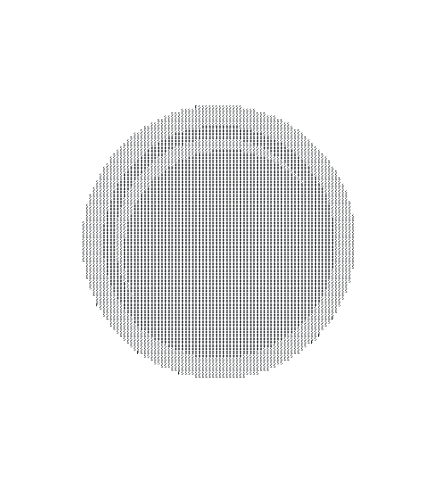
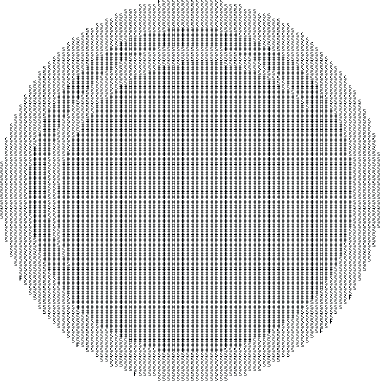
roadmap images without margins, aligned center

diff --git a/app/ui/roadmap/lastYears/section.tsx b/app/ui/roadmap/lastYears/section.tsx
@@ -8,7 +8,7 @@ export default function LastYearsSection() {
     <SectionWithImage
       title={{ text: "2022 - 2023", size: "lg" }}
       textAlign="right"
-      alignContent="top"
+      alignContent="center"
       image={{
         component: (
           <Image

diff --git a/app/ui/roadmap/Q12024/section.tsx b/app/ui/roadmap/Q12024/section.tsx
@@ -8,7 +8,7 @@ export default function Q12024Section() {
     <SectionWithImage
       title={{ text: "Q1 2024", size: "lg" }}
       textAlign="left"
-      alignContent="top"
+      alignContent="center"
       image={{
         component: (
           <Image

diff --git a/app/ui/roadmap/Q22024/section.tsx b/app/ui/roadmap/Q22024/section.tsx
@@ -11,7 +11,7 @@ export default function Q22024Section() {
         size: "lg",
       }}
       textAlign="right"
-      alignContent="top"
+      alignContent="center"
       image={{
         component: (
           <Image

diff --git a/app/lib/utils.ts b/app/lib/utils.ts
@@ -1,4 +1,4 @@
 export const homeSectionImageClass =
   "w-1/2 sm:w-auto md:w-3/4 lg:w-2/3 xl:w-1/2";
 
-export const roadmapSectionImageClass = "w-1/2 sm:w-auto";
+export const roadmapSectionImageClass = "w-1/2 sm:w-2/3";
